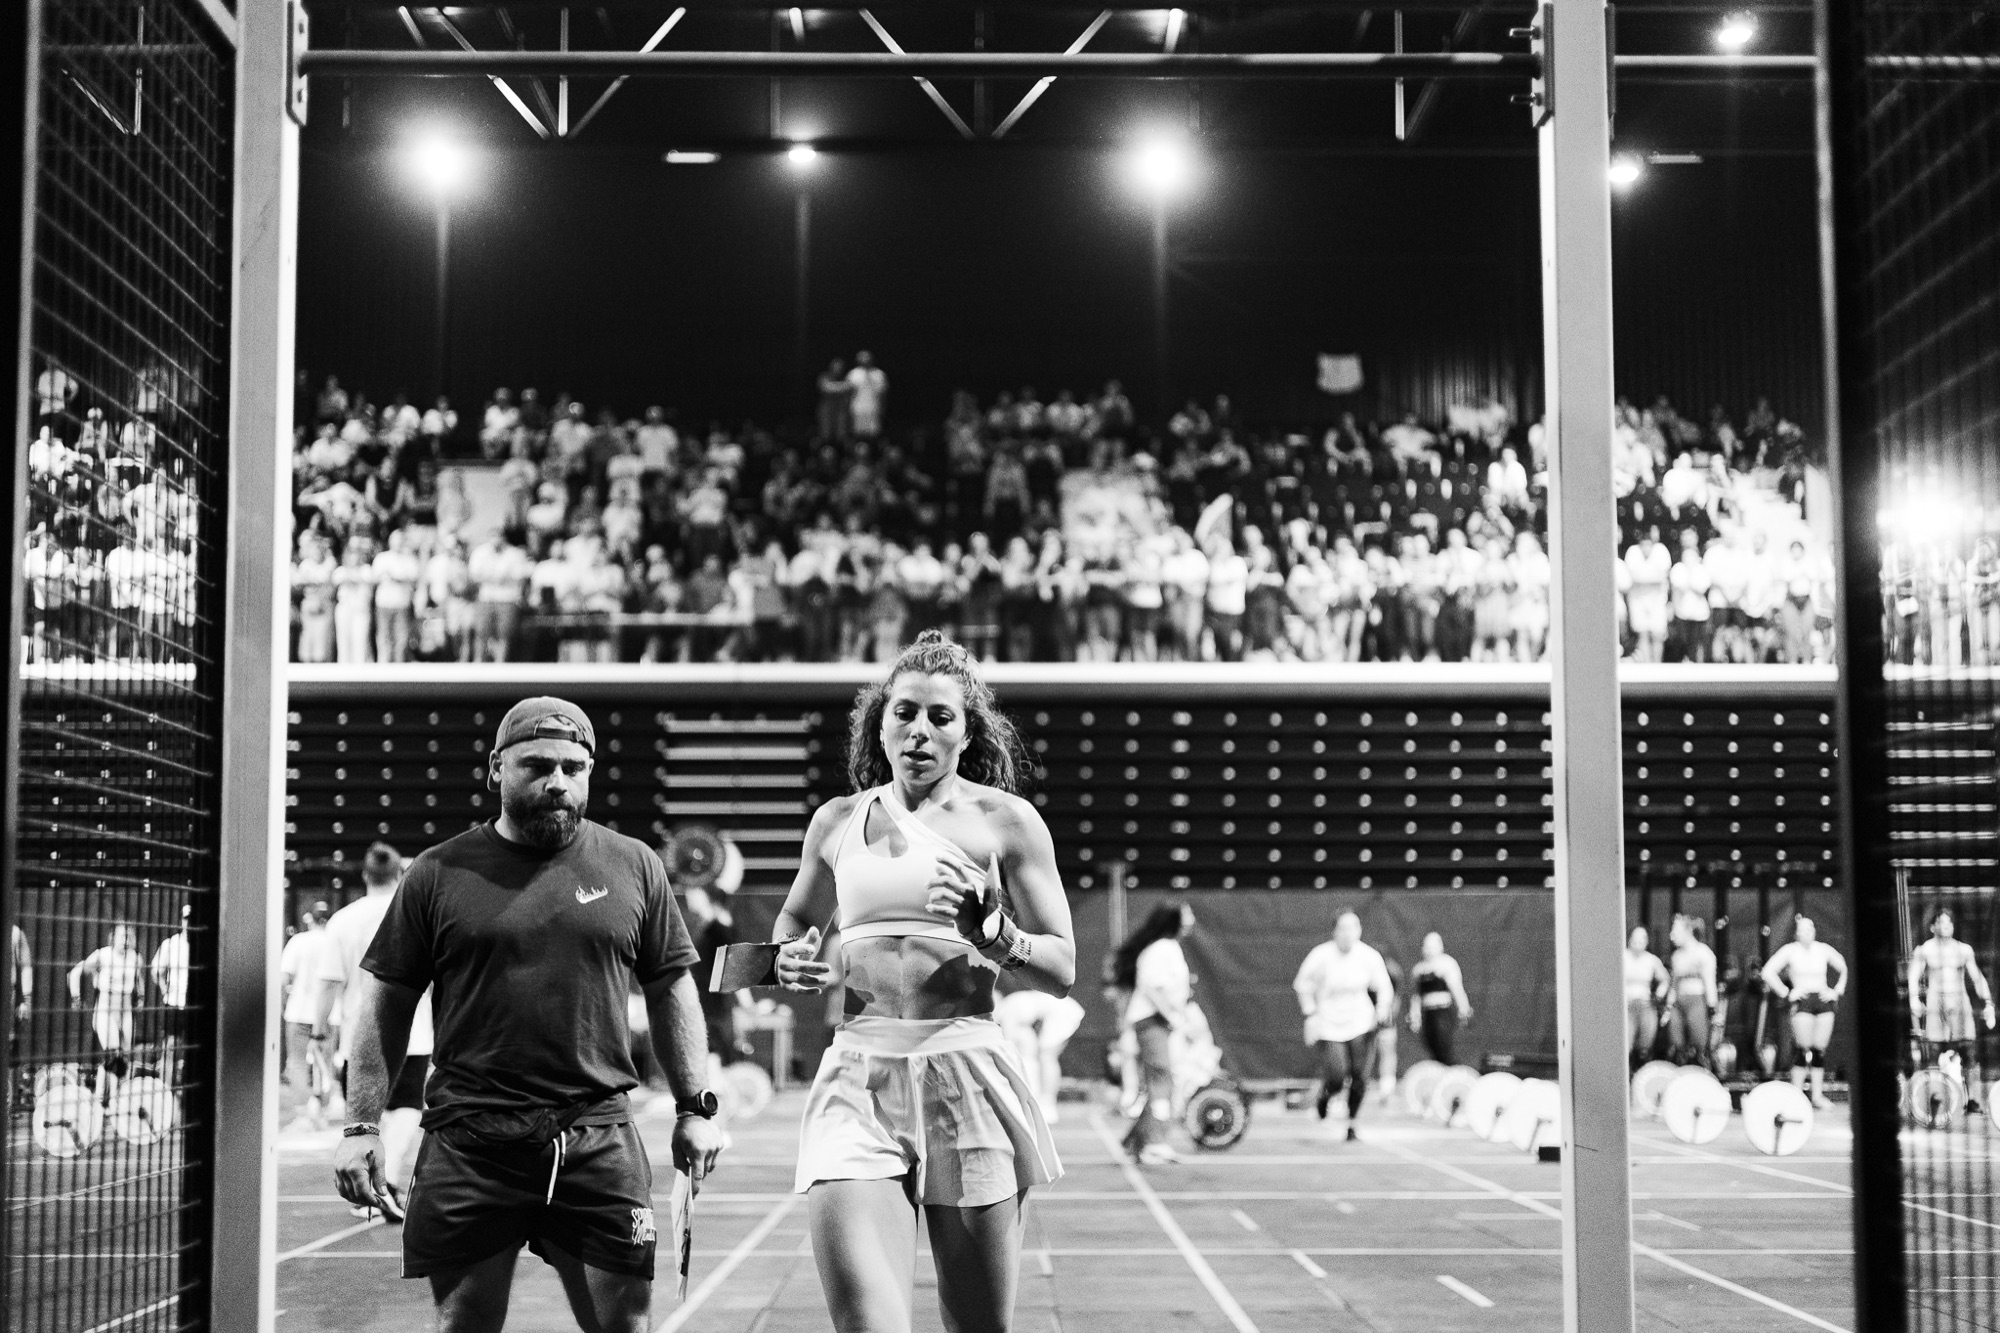
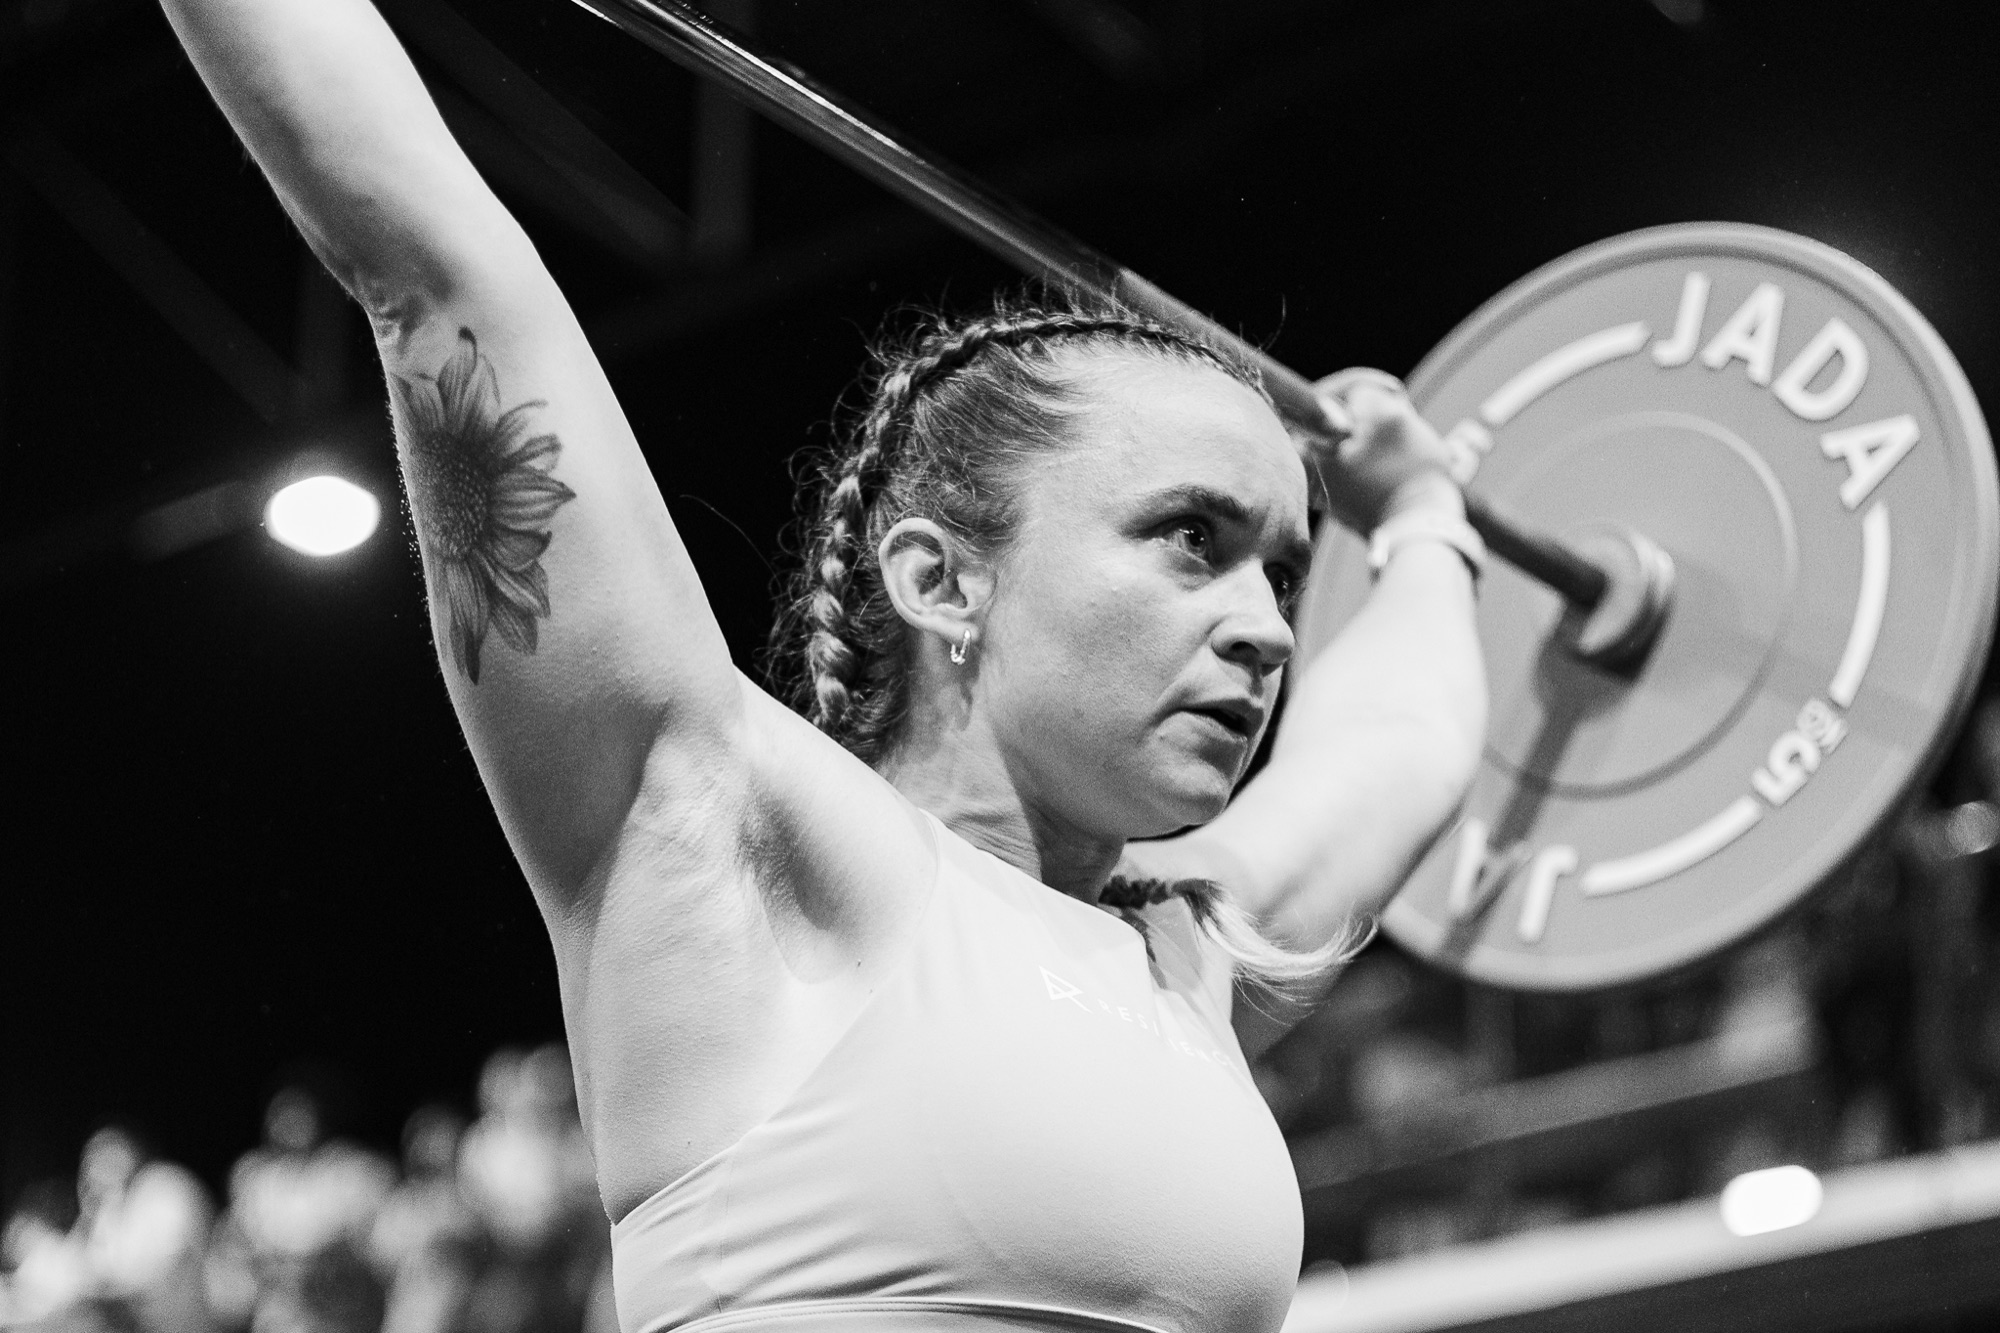
Mise a jour photos sport-competition et alts

diff --git a/evenementiel.html b/evenementiel.html
@@ -103,13 +103,13 @@
         </div>
         <div class="portrait-gallery" aria-label="Photographies d'événements publics">
           <figure class="portrait-photo portrait-photo--tall">
-            <img src="images/evenementiel/sport-competition-01.jpg?v=3" alt="Athlète soulevant une barre à l'haltérophilie, en noir et blanc" loading="lazy">
+            <img src="images/evenementiel/sport-competition-01.jpg?v=4" alt="Athlète quittant l'aire de compétition dans une salle" loading="lazy">
           </figure>
           <figure class="portrait-photo">
-            <img src="images/evenementiel/sport-competition-02.jpg?v=3" alt="Équipe portant un sac lesté lors d'une épreuve sportive" loading="lazy">
+            <img src="images/evenementiel/sport-competition-02.jpg?v=4" alt="Équipe portant un sac lesté lors d'une épreuve sportive" loading="lazy">
           </figure>
           <figure class="portrait-photo">
-            <img src="images/evenementiel/sport-competition-03.jpg?v=3" alt="Athlète quittant l'aire de compétition dans une salle" loading="lazy">
+            <img src="images/evenementiel/sport-competition-03.jpg?v=4" alt="Athlète soulevant une barre à l'haltérophilie, en noir et blanc" loading="lazy">
           </figure>
         </div>
       </section>

diff --git a/portraits.html b/portraits.html
@@ -72,13 +72,13 @@
         </div>
         <div class="portrait-gallery" aria-label="Photographies de portraits personnels et créatifs">
           <figure class="portrait-photo portrait-photo--tall">
-            <img src="images/portraits/personnel-01.jpg?v=2" alt="Portrait individuel en lumière naturelle" loading="lazy">
+            <img src="images/portraits/personnel-01.jpg?v=3" alt="Portrait en lumière dorée dans un champ de fleurs jaunes" loading="lazy">
           </figure>
           <figure class="portrait-photo">
-            <img src="images/portraits/personnel-02.jpg?v=2" alt="Portrait féminin en extérieur" loading="lazy">
+            <img src="images/portraits/personnel-02.jpg?v=3" alt="Portrait derrière un cadre en bois, dans un champ" loading="lazy">
           </figure>
           <figure class="portrait-photo">
-            <img src="images/portraits/personnel-03.jpg?v=2" alt="Portrait masculin, cadrage rapproché" loading="lazy">
+            <img src="images/portraits/personnel-03.jpg?v=3" alt="Portrait en gros plan, maquillage graphique et bijoux" loading="lazy">
           </figure>
         </div>
       </section>
